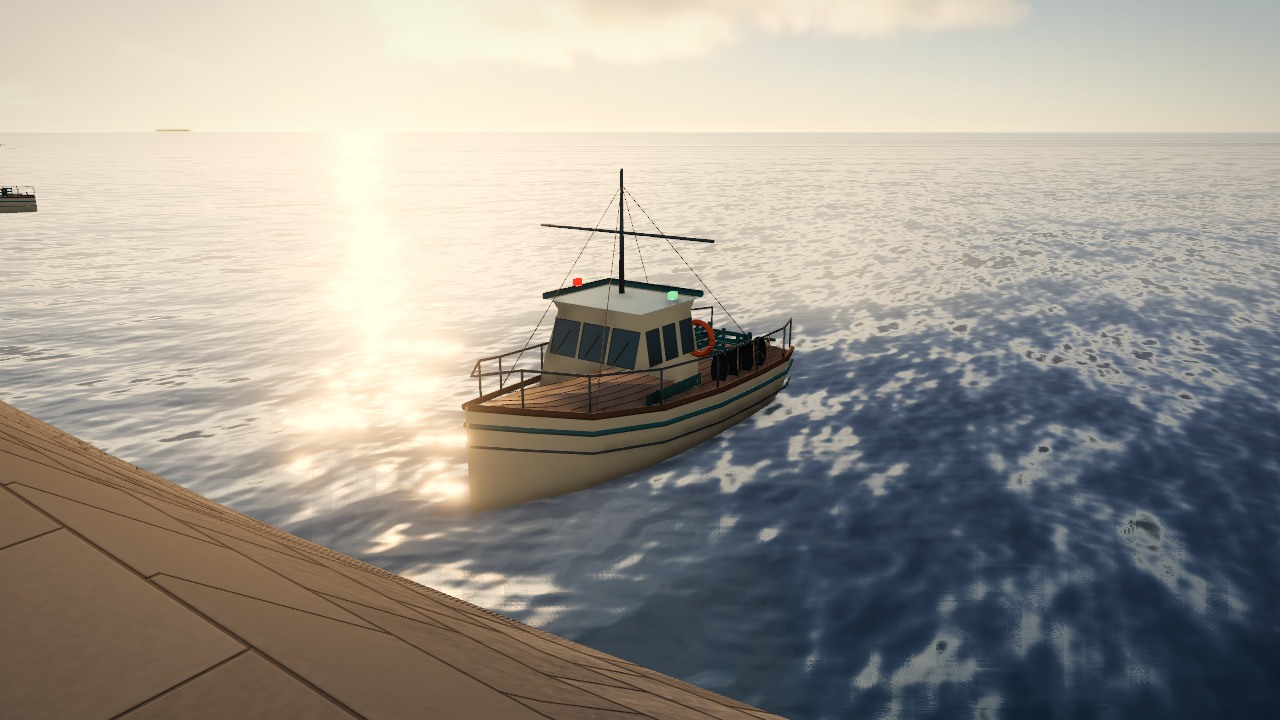
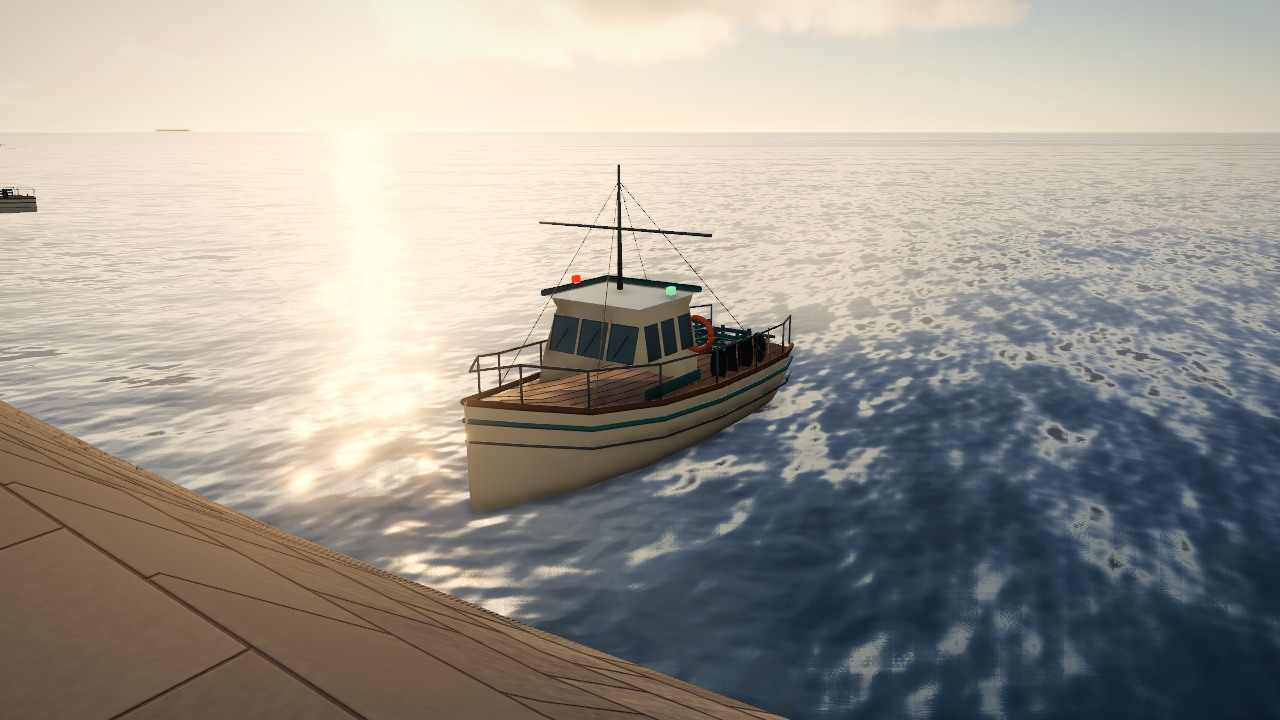
Publish six verified Festival camera views and the passing hosted input journey

diff --git a/docs/production/solvane-coast-field-review/README.md b/docs/production/solvane-coast-field-review/README.md
@@ -28,6 +28,8 @@ The Medium-preset night captures show a harbour storefront and the overhead fest
 
 ![Port Ilse storefront and festoon lighting on wet streets at night](port-ilse-night.jpg)
 
+[Full-size 1280 × 720 rainy-night street view](port-ilse-wet-street.jpg)
+
 ## The wet mountain approach
 
 The builds are `6a37db8` and `a2cab68`. Both frames use the SC-7 chase camera on arrival at the Varda Pass speed zone, 800 × 450 in Low, with the same rain and sunset presets. The replacement for the bright start ring is visible on the right shoulder. Distant tree crowns now follow the near forest. The improved slope lighting keeps the road and hillside distinguishable.
@@ -56,7 +58,7 @@ The Ashvale river now carries ripples in the direction of the channel. Its surfa
 
 ![Fixed component views of the farms, headland lantern and river material](headland-and-valley.jpg)
 
-The fixed sunset camera looks across the Port Ilse quay at the harbour launch and open coastal water. This 1280 × 720 Medium capture is from the hosted review on `47a15eca`.
+The fixed sunset camera looks across the Port Ilse quay at the harbour launch and open coastal water. This 1280 × 720 Medium capture is from the hosted review on `4d501b48`.
 
 ![The harbour launch in the coastal water at sunset](coastal-launch.jpg)
 
@@ -144,7 +146,9 @@ The quay build passed 188 focused checks across 23 files on the hosted runner. T
 
 The keyboard journey also passed all 12 checks using the browser matrix's corrected identity manifest. It carried the production fingerprint and 1,848 individual source and asset hashes. Keyboard input moved the car 66.74 m and braking reduced speed from 66.26 to below 0.01 km/h. The three-car race finished in 105.37 seconds with zero off-route time, page errors or missing assets.
 
-A hosted run of the earlier reflection build finished the driving checks but exceeded the night-load deadline while identifying its software renderer. The review now reads the WebGL renderer name from the Festival's own context before the first draw. The night checks still require the requested backend and both full lighting comparisons.
+A hosted run of the earlier reflection build finished the driving checks but exceeded the night-load deadline while identifying its software renderer. The review now reads the WebGL renderer name from the Festival's own context before the first draw. The night checks still require the requested backend and both full lighting comparisons. The hosted rerun on `84bd7d1b` passed both night views, all three particle scenarios and the 12-step driving journey. [Renderer and optics rerun](https://github.com/cheshmakzanoon-ops/Experiment-3/actions/runs/44874721051)
+
+The final hosted camera matrix on `4d501b48` passed all six 1280 × 720 views, covering Low and High chase cameras, Medium day and night streets and the coastal launch. Its keyboard journey passed all 12 checks with the production fingerprint. The Harbour Opening Run finished in 105.37 seconds with 0 seconds off course. [Hosted camera matrix and driving checks](https://github.com/cheshmakzanoon-ops/Experiment-3/actions/runs/44875172950)
 
 Blender 5.2.2 LTS reopened the coastal detail, street and façade-joinery sources. All eight outputs matched the files shipped to the game byte for byte, including the three GLBs.
 
